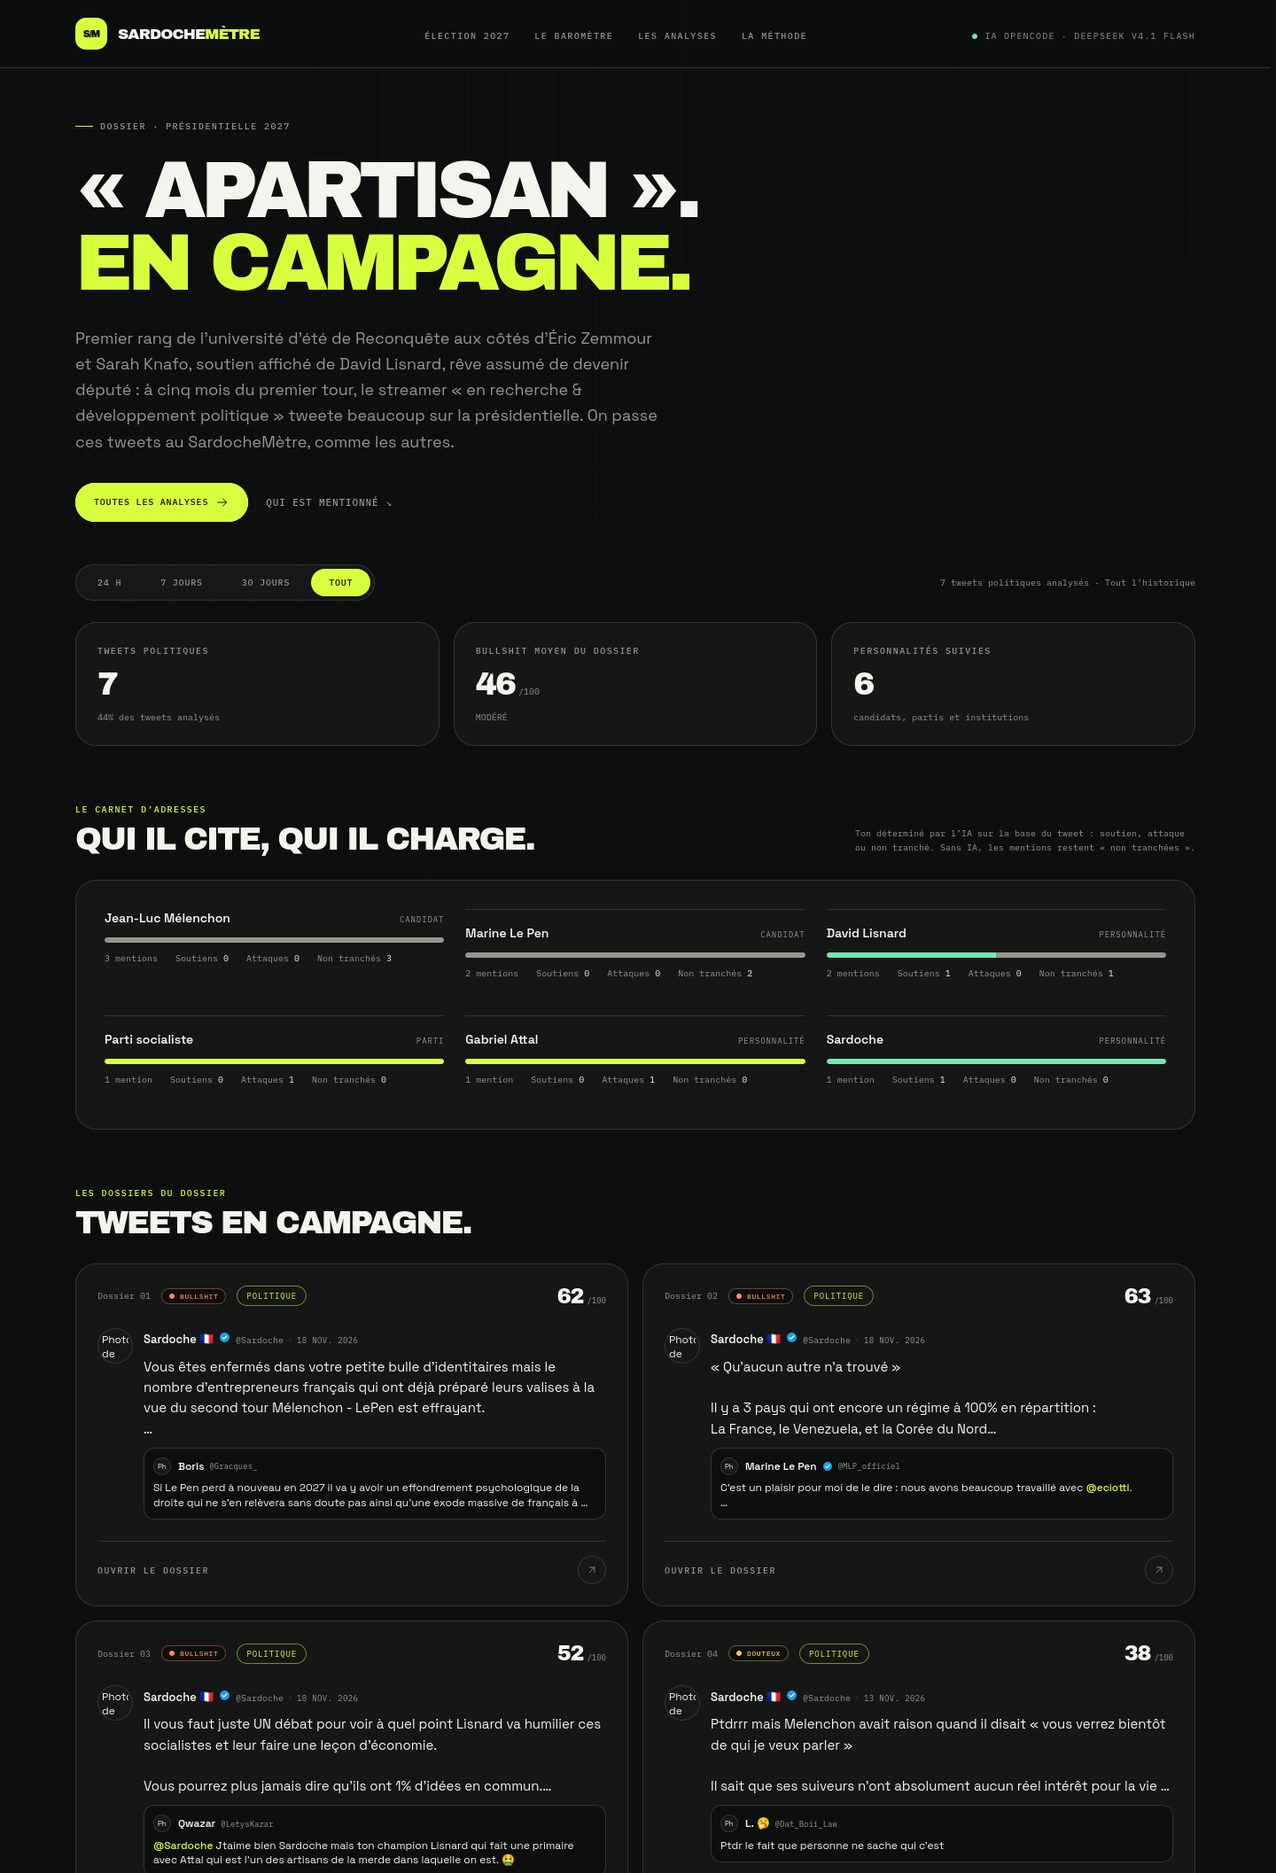
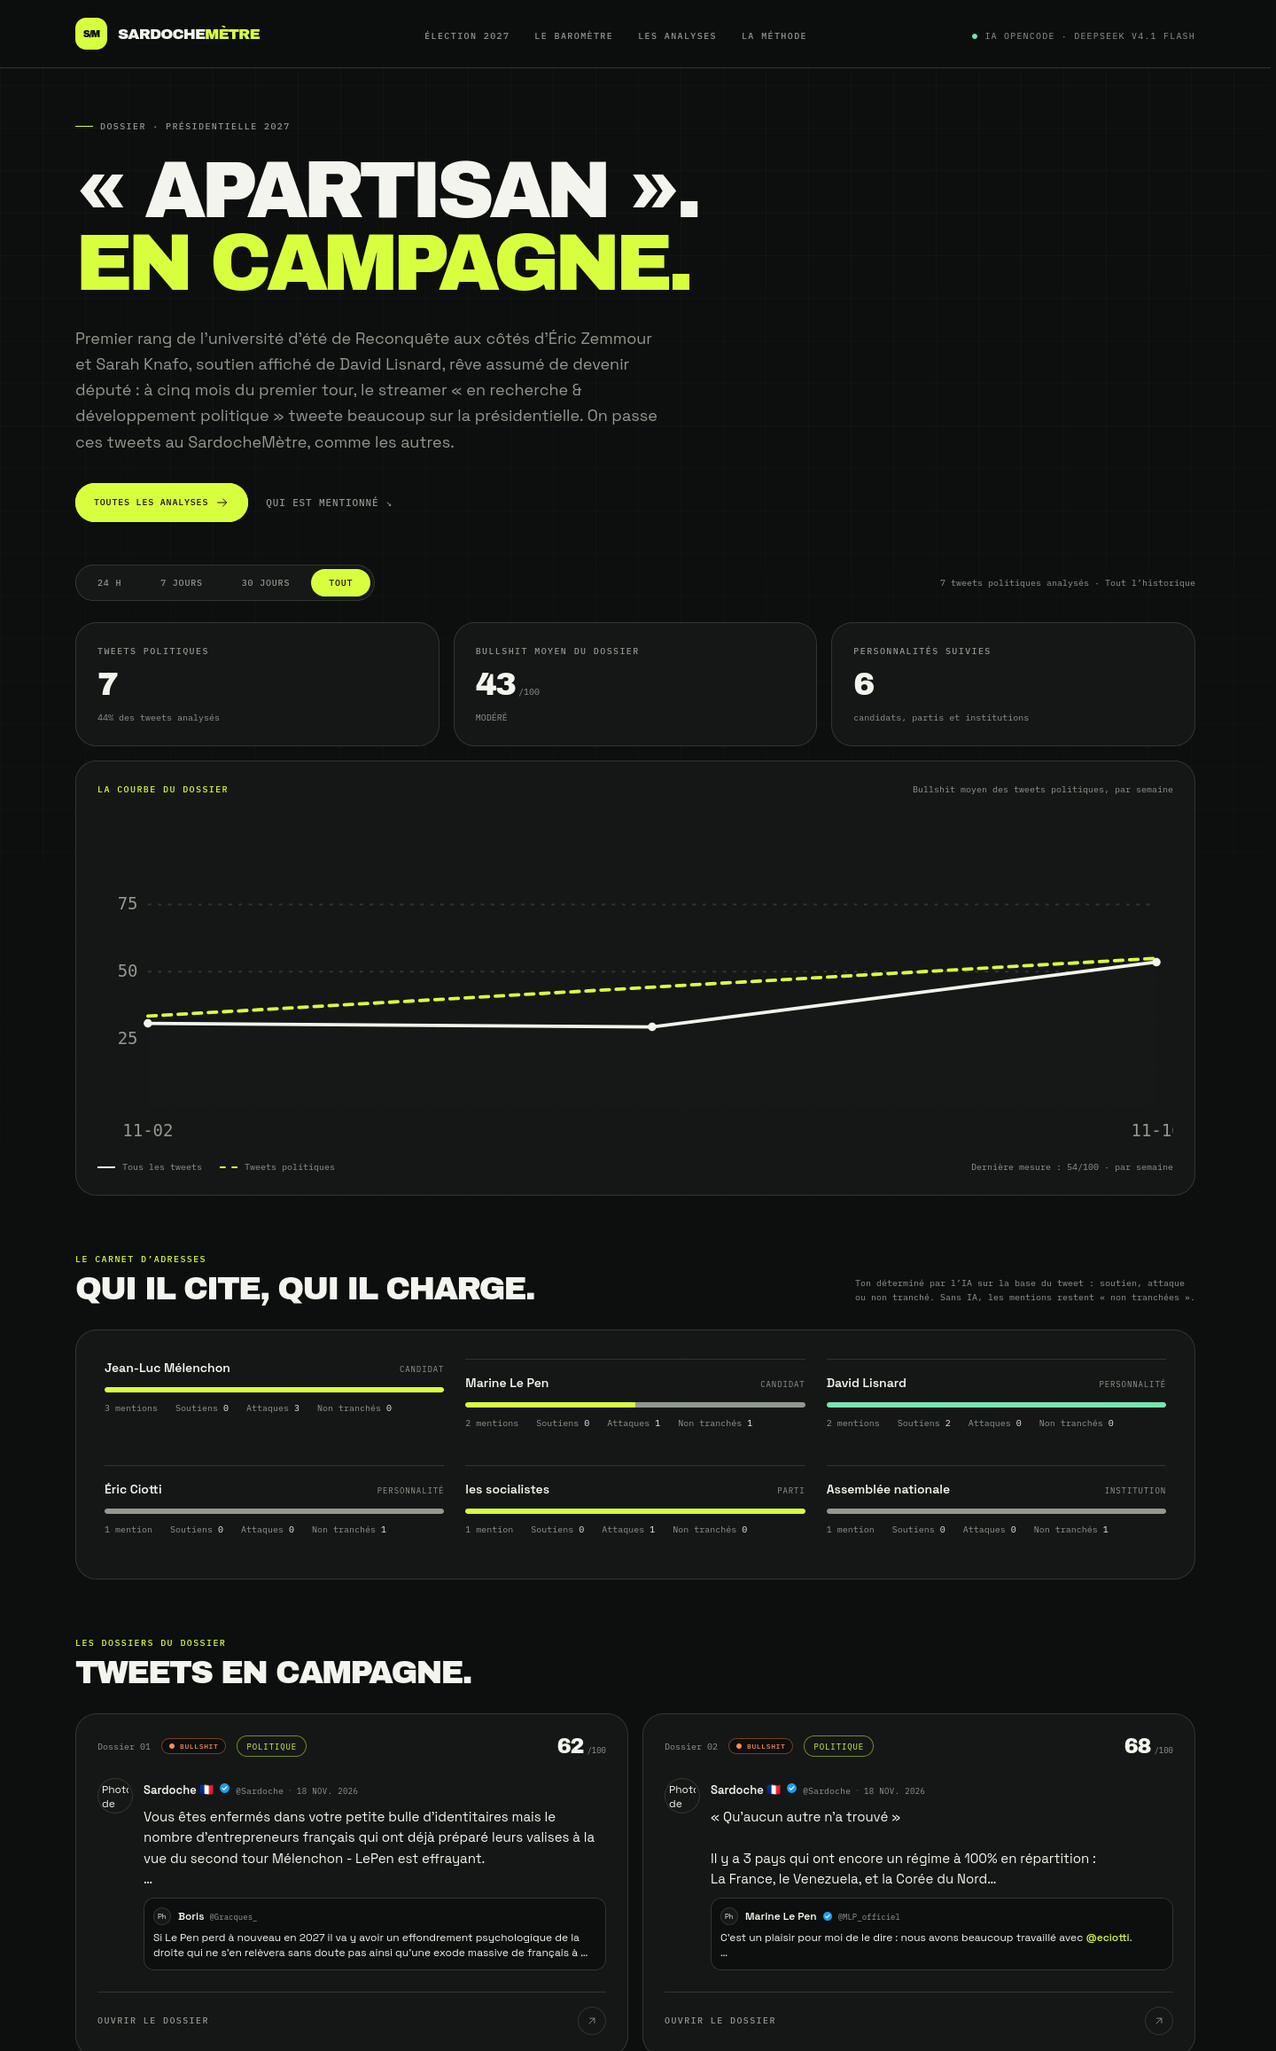
docs: documente l'analyse sourcée et les courbes
- README : fonctionnalités, routes historique, forme plate étendue
  (fact-checks sourcés, sources consultées), variables
  ANALYZE_WITH_SOURCES et TAVILY_API_KEY, coût (~2 appels par tweet),
  limites des sources ; captures reprises avec la courbe ;
- ARCHITECTURE : pipeline deux passes, sourcesService, historique et
  colonnes analyses.sources ;
- AI_MODE : description complète du pipeline avec rattrapage ;
- CLAUDE : contrats, arborescence, 150 tests backend / 55 frontend.

diff --git a/README.md b/README.md
@@ -68,6 +68,16 @@ de test. Le détail de l'inventaire se trouve dans
   attaque, neutre) et une page dédiée agrège le tout : qui est cité, qui est
   chargé, score de bullshit moyen des tweets en campagne. Fonctionne sans
   clé IA (détection lexicale seule, ton « non tranché »).
+- **Fact-check sourcé en deux passes** : l'IA extrait d'abord les
+  affirmations du tweet, le backend recherche des sources (Tavily si clé,
+  API Wikipédia FR sinon), puis l'IA ré-analyse en citant ces sources. Le
+  détail du tweet affiche les sources consultées avec extraits, et chaque
+  affirmation porte les liens qui l'éclairent. Anti-hallucination : le modèle
+  ne peut citer que des URL fournies par le backend, jamais inventées.
+- **Graphiques** : courbe de l'indice de bullshit dans le temps (par jour,
+  semaine ou mois) avec la série des tweets politiques en pointillés, sur
+  l'accueil et dans le dossier élection — SVG maison, sans dépendance de
+  graphique.
 - **Interface sombre et responsive** : titres Archivo Black, texte Space Grotesk,
   données IBM Plex Mono, accent vert acide, tableau de bord et archives en cartes.
 - **404 et états d'erreur** : page inconnue, tweet introuvable, backend indisponible,
@@ -231,6 +241,8 @@ Variables principales :
 | `OPENCODE_MODEL` | `deepseek-v4.1-flash` | Modèle utilisé. |
 | `OPENCODE_PLAN` | `payg` ou `go` | Offre OpenCode et URL associée. |
 | `OPENCODE_MAX_TOKENS` | `3000` | Limite de génération. |
+| `ANALYZE_WITH_SOURCES` | `true` | Active la recherche de sources et la deuxième passe d'analyse ; `false` repasse en mono-passe. |
+| `TAVILY_API_KEY` | — | Clé optionnelle de recherche web (https://tavily.com). Sans clé, seule l'API Wikipédia FR est consultée. |
 | `SARDOCHE_USERNAME` | `Sardoche` | Compte suivi. |
 | `TWITTER_BEARER_TOKEN` | — | Uniquement avec `TWITTER_SOURCE=x`. |
 
@@ -239,6 +251,11 @@ application. L'offre **Go** est prévue pour les agents de codage ; elle reste
 supportée, avec l'en-tête `x-opencode-session` ajouté par le backend. La configuration
 locale de ce dépôt utilise une clé Go (`OPENCODE_PLAN=go`) ; le compte pay-as-you-go
 n'a pas de crédits. Pour un déploiement public, préférez une clé payg approvisionnée.
+
+L'analyse en deux passes consomme environ **deux appels IA par tweet** (trois si
+la deuxième passe doit être retentée) : avec DeepSeek Flash, le coût reste de
+l'ordre du centième de centime par tweet. La recherche de sources (Wikipédia) est
+gratuite et sans clé.
 
 La clé OpenCode ne doit **jamais** être exposée au frontend. Aucun secret ne doit
 figurer dans une variable `VITE_*`.
@@ -364,6 +381,7 @@ JSON ; les erreurs utilisent la forme `{ "error": "..." }`.
 | `GET` | `/api/tweets/stats?period=` | `{period, avgScore, minScore, maxScore, totalAnalyzed, verdictDistribution}`. |
 | `GET` | `/api/tweets/bullshitmetre?period=` | `{period, globalScore, level, sampleSize, timestamp}`. Niveaux : `FAIBLE` (< 25), `MODÉRÉ` (< 50), `ÉLEVÉ` (< 75), `CRITIQUE` (≥ 75). |
 | `GET` | `/api/tweets/election?period=&limit=10` | Dossier élection : `{period, politicalCount, totalAnalyzed, avgPoliticalScore, mentions, tweets, updatedAt}`. `mentions` agrège les personnalités, partis et institutions cités dans les tweets politiques avec leur ton (`soutien`, `attaque`, `neutre`) et les identifiants des tweets concernés. |
+| `GET` | `/api/tweets/historique?period=&bucket=day\|week\|month` | Courbe de l'indice : `{period, bucket, points: [{date, avgScore, count, politicalCount, avgPoliticalScore}], updatedAt}`. `avgPoliticalScore` vaut `null` quand le bucket ne contient aucun tweet politique. Un bucket inconnu répond `400`. |
 | `GET` | `/api/tweets/search?q=` | `{tweets, total}` — recherche simple sur le contenu. |
 | `GET` | `/api/tweets/:id` | `{tweet}` ou `404` avec `{error}`. |
 | `POST` | `/api/tweets/analyze` | Corps `{content, tweet_id?}`. `content` est obligatoire et limité à 1000 caractères. Si `tweet_id` existe en base, son contexte (parent, citation, images) est envoyé au modèle et le tweet analysé est retourné ; sinon `{analysis}`. `401` si `ANALYZE_API_KEY` est définie et absente/invalide, `503` sans provider IA configuré. |
@@ -424,12 +442,20 @@ Forme d'un tweet (plate) :
   "bullshit_score": 86,
   "verdict": "BULLSHIT",
   "reasoning": "…",
-  "fact_checks": [{ "claim": "…", "verdict": "faux", "note": "…" }],
+  "fact_checks": [{ "claim": "…", "verdict": "faux", "note": "…", "sources": [{ "title": "…", "url": "…" }] }],
   "mentions": [
     {
       "label": "David Lisnard",
       "type": "candidat",
       "stance": "soutien"
+    }
+  ],
+  "sources": [
+    {
+      "title": "Retraite en France",
+      "url": "https://fr.wikipedia.org/wiki/Retraite_en_France",
+      "snippet": "…",
+      "provider": "wikipedia"
     }
   ],
   "humor_comment": "…",
@@ -480,6 +506,15 @@ Le détail est dans [`docs/DEPLOYMENT.md`](docs/DEPLOYMENT.md).
   « neutres ». C'est un outil satirique de lecture de flux, pas un observatoire
   électoral officiel. Le dictionnaire est calibré sur la campagne 2027 et doit
   être tenu à jour au fil des candidatures.
+- **Sources de fact-check indicatives** : la deuxième passe consulte Wikipédia
+  FR (et Tavily si une clé est fournie) et le modèle ne peut citer que ces URL —
+  il ne peut pas en inventer. Mais un extrait Wikipédia peut être daté ou
+  incomplet, et Tavily peut ramener un article de presse contesté : une source
+  citée n'est pas une preuve définitive, juste un point de départ. Les analyses
+  antérieures à la fonctionnalité n'affichent aucune source.
+- **IA faillible (rappel)** : le modèle peut se tromper, inventer un fait dans
+  une note ou mal lire une source fournie. Les réponses invalides sont
+  rejetées, pas les erreurs de jugement.
 - **Repli mock limité aux tests/démo** : le service d'analyse ne produit une
   analyse simulée que si `NODE_ENV=test`, `DEMO_MODE=true` ou `AI_PROVIDER=mock`.
   En production, une clé manquante fait répondre `503 AI_NOT_CONFIGURED` et aucune

diff --git a/CLAUDE.md b/CLAUDE.md
@@ -29,6 +29,15 @@ analyses ne constituent pas un fact-checking professionnel.
   (`politicsService.js`, dictionnaire calibré sur la présidentielle 2027),
   mentions de personnalités avec ton (soutien/attaque/neutre) produites par
   l'IA, route `GET /api/tweets/election` et page frontend `/election`.
+- **Fact-check sourcé en deux passes** : `sourcesService.js` consulte
+  Wikipédia FR (sans clé) et Tavily (si `TAVILY_API_KEY`), le modèle cite
+  ces sources dans `fact_checks[].sources` et ne peut inventer aucune URL
+  (filtrage `allowedUrls`). Colonne `analyses.sources`, section « Sources
+  consultées » sur la page détail. `ANALYZE_WITH_SOURCES=false` coupe le
+  pipeline. `scripts/regen-analyses.js` régénère les analyses en base.
+- **Courbes** : `GET /api/tweets/historique` agrège le score par
+  jour/semaine/mois avec la série politique ; `TrendChart.jsx` (SVG maison)
+  l'affiche sur l'accueil et dans le dossier élection.
 - **Déploiement** : frontend statique (Vercel/Netlify) + backend
   (Railway/Render) avec SQLite sur disque persistant ou PostgreSQL.
 
@@ -71,11 +80,14 @@ backend/
   services/
     twitterService.js    # sources profile, syndication, x, mock
     opencodeService.js   # appels OpenCode et normalisation
-    aiService.js         # sélection du provider
+    aiService.js         # sélection du provider, orchestration deux passes
     politicsService.js   # détection électorale et mentions (dictionnaire 2027)
+    sourcesService.js    # recherche de sources (Wikipédia FR, Tavily optionnel)
     schedulerLock.js     # bail renouvelable du scheduler
     claudeService.js     # prompt, parsing, provider Anthropic historique
-  migrations/            # migrations PostgreSQL (source, profil, embed, bail, élection)
+  scripts/
+    regen-analyses.js    # régénère toutes les analyses avec le prompt courant
+  migrations/            # migrations PostgreSQL (source, profil, embed, bail, élection, sources)
   mock/tweets.json       # tweets de test
   test/                  # tests node:test
 
@@ -103,7 +115,7 @@ archive/                 # ancien squelette de projet
 cd backend
 npm start                # serveur
 npm run dev              # serveur avec rechargement
-npm test                 # 131 tests
+npm test                 # 150 tests
 npm run sync             # collecte les tweets de la source configurée
 npm run sync:analyze     # collecte + analyse les nouveaux tweets
 npm run seed             # données mock (tests uniquement)
@@ -116,7 +128,7 @@ npm run dev
 npm run build
 npm run preview
 npm run lint
-npm test                 # 48 tests
+npm test                 # 55 tests
 
 # Vérification complète
 ./test-install.sh
@@ -133,6 +145,7 @@ npm test                 # 48 tests
 | GET | `/api/tweets/stats?period=` | `{period, avgScore, minScore, maxScore, totalAnalyzed, verdictDistribution}` |
 | GET | `/api/tweets/bullshitmetre?period=` | `{period, globalScore, level, sampleSize, timestamp}` |
 | GET | `/api/tweets/election?period=&limit=` | `{period, politicalCount, totalAnalyzed, avgPoliticalScore, mentions, tweets, updatedAt}` |
+| GET | `/api/tweets/historique?period=&bucket=day\|week\|month` | `{period, bucket, points: [{date, avgScore, count, politicalCount, avgPoliticalScore}], updatedAt}` ; bucket inconnu → 400 |
 | GET | `/api/tweets/search?q=` | `{tweets, total}` |
 | GET | `/api/tweets/:id` | `{tweet}` ou 404 |
 | POST | `/api/tweets/analyze` | `{tweet}` si `tweet_id` existe, sinon `{analysis}` |
@@ -179,6 +192,9 @@ Forme de tweet plate :
   "fact_checks": [],
   "mentions": [
     { "label": "David Lisnard", "type": "candidat", "stance": "soutien" }
+  ],
+  "sources": [
+    { "title": "Retraite en France", "url": "https://fr.wikipedia.org/wiki/…", "snippet": "…", "provider": "wikipedia" }
   ],
   "humor_comment": "…",
   "analyzed_at": "…"
@@ -230,6 +246,8 @@ CRON_SCHEDULE=*/5 * * * *
 CRON_RUN_ON_START=true
 ANALYZE_RATE_LIMIT=10
 ANALYZE_RATE_WINDOW_MS=60000
+# ANALYZE_WITH_SOURCES=true        # false = analyse mono-passe, sans recherche
+# TAVILY_API_KEY=tvly-...           # recherche web réelle (sinon Wikipédia FR seul)
 # TRUST_PROXY=1            # derrière Railway/Render
 # ANALYZE_API_KEY=...      # protège les routes POST d'analyse (Bearer / x-analyze-key)
 # ANALYZE_RATE_LIMIT_SHARED=true  # compteur partagé entre instances
@@ -288,8 +306,8 @@ nécessaire.
 
 ## Tests
 
-- Backend : **131 tests** (`node --test test/*.test.js`, `npm test`).
-- Frontend : **48 tests** (`vitest run`, `npm test`).
+- Backend : **150 tests** (`node --test test/*.test.js`, `npm test`).
+- Frontend : **55 tests** (`vitest run`, `npm test`).
 - `npm run lint` et `npm run build` passent.
 - `npm audit` : backend propre ; le frontend signale le ReDoS picomatch
   (CVE-2026-112366) via les devDependencies vite/vitest. Aucune version corrigée

diff --git a/docs/ARCHITECTURE.md b/docs/ARCHITECTURE.md
@@ -237,6 +237,7 @@ analyses
   reasoning     TEXT
   fact_checks   JSONB (PostgreSQL) / TEXT JSON (SQLite)
   mentions      JSONB / TEXT JSON  (personnalités citées avec leur ton)
+  sources       JSONB / TEXT JSON  (sources consultées pour le fact-check)
   humor_comment TEXT
   analyzed_at   TIMESTAMP
 
@@ -308,6 +309,35 @@ même dictionnaire : le dossier fonctionne aussi sans clé IA.
 Le dictionnaire est un choix éditorial assumé : il doit suivre les
 candidatures officielles et rester factuel dans ses libellés.
 
+### Recherche de sources et analyse en deux passes
+
+`services/sourcesService.js` approfondit le fact-check :
+
+1. la passe 1 du modèle extrait les affirmations (`fact_checks[].claim`) et
+   les mentions ;
+2. le backend recherche jusqu'à 4 requêtes : API Wikipédia FR (sans clé) et,
+   si `TAVILY_API_KEY` est définie, Tavily (recherche web) — jusqu'à 8
+   sources, chaque échec étant ignoré ;
+3. la passe 2 ré-analyse avec le bloc « Sources consultées » ; le modèle ne
+   peut citer que ces URL, et toute URL hors liste est rejetée à la
+   normalisation (`normalizeFactChecks` avec `allowedUrls`) ;
+4. les sources consultées sont stockées dans `analyses.sources` et exposées
+   dans la forme plate (`sources`), affichées sur la page détail.
+
+Si la passe 2 échoue, une tentative à température 0,2 précède le repli sur la
+passe 1 sans sources. `ANALYZE_WITH_SOURCES=false` coupe le pipeline. Le
+script `backend/scripts/regen-analyses.js` régénère toutes les analyses en
+base avec le pipeline courant (à lancer après un changement de prompt).
+
+### Historique et courbes
+
+`GET /api/tweets/historique?period=&bucket=day|week|month` agrège le score
+moyen par bucket (UTC, semaines commençant le lundi) avec une seconde série
+pour les tweets politiques. SQLite calcule les buckets en JavaScript,
+PostgreSQL via `date_trunc`. Le frontend trace ces points en SVG maison
+(`TrendChart.jsx`), sans dépendance de graphique : une courbe sur l'accueil
+et une dans le dossier élection.
+
 ### Seed de test
 
 `db/mock-data.js` lit `backend/mock/tweets.json`, trie les tweets et remplace leurs
@@ -358,6 +388,7 @@ scheduler.
 | `GET` | `/api/tweets/stats?period=` | `{period, avgScore, minScore, maxScore, totalAnalyzed, verdictDistribution}` |
 | `GET` | `/api/tweets/bullshitmetre?period=` | `{period, globalScore, level, sampleSize, timestamp}` |
 | `GET` | `/api/tweets/election?period=&limit=` | `{period, politicalCount, totalAnalyzed, avgPoliticalScore, mentions, tweets, updatedAt}` |
+| `GET` | `/api/tweets/historique?period=&bucket=day\|week\|month` | `{period, bucket, points, updatedAt}` — bucket inconnu : `400` |
 | `GET` | `/api/tweets/search?q=` | `{tweets, total}` |
 | `GET` | `/api/tweets/:id` | `{tweet}` ou `404` |
 | `POST` | `/api/tweets/analyze` | `{tweet}` si `tweet_id` existe, sinon `{analysis}` |
@@ -403,6 +434,7 @@ Forme de tweet plate :
   "reasoning": "…",
   "fact_checks": [],
   "mentions": [{ "label": "…", "type": "candidat", "stance": "neutre" }],
+  "sources": [{ "title": "…", "url": "…", "snippet": "…", "provider": "wikipedia" }],
   "humor_comment": "…",
   "analyzed_at": "2026-11-06T14:27:52.877Z"
 }

diff --git a/docs/screenshots/README.md b/docs/screenshots/README.md
@@ -1,21 +1,22 @@
 # Captures d'écran
 
 Captures prises le 13 novembre 2026 sur la version actuelle de l'application
-(les captures du dossier élection datent du 18 novembre 2026). Les tweets
-affichés sont de **vrais tweets de @Sardoche des 5 et 18 novembre 2026**,
-collectés via la source `profile` puis analysés par OpenCode (DeepSeek V4.1
-Flash). Aucune capture ne montre de données mock.
+(`home.png`, `election.png` et `election-mobile.png` ont été reprises le
+18 novembre 2026 avec la courbe de l'indice). Les tweets affichés sont de
+**vrais tweets de @Sardoche des 5 et 18 novembre 2026**, collectés via la
+source `profile` puis analysés par OpenCode (DeepSeek V4.1 Flash). Aucune
+capture ne montre de données mock.
 
 | Fichier | Contenu |
 | --- | --- |
-| `home.png` | Accueil desktop : navigation, hero, baromètre, filtres et indicateurs |
+| `home.png` | Accueil desktop : navigation, hero, baromètre, filtres, indicateurs et courbe de l'indice dans le temps |
 | `une.png` | Accueil desktop : dossier le plus chaud, embed X et répartition des verdicts |
 | `liste.png` | Accueil desktop : archives en cartes avec médias, verdicts et scores |
 | `detail.png` | Page détail desktop du tweet Perkz/G2 : embed, panneau de score, analyse et fact-checks |
 | `detail-photo.png` | Page détail desktop d'un tweet avec photo : embed, score, analyse et fact-checks |
 | `mobile.png` | Accueil mobile : hero et baromètre, sans débordement horizontal |
 | `detail-mobile.png` | Page détail mobile : tweet, panneau de score, analyse et fact-checks |
-| `election.png` | Dossier élection desktop : hero de campagne, KPIs (tweets politiques, bullshit moyen), carnet des mentions avec ton soutien/attaque et derniers tweets politiques |
+| `election.png` | Dossier élection desktop : hero de campagne, KPIs, courbe du dossier, carnet des mentions avec ton soutien/attaque et derniers tweets politiques |
 | `election-mobile.png` | Dossier élection mobile : même contenu en une colonne, sans débordement horizontal |
 
 Les captures `detail.png`, `detail-photo.png` et `election.png` correspondent à

diff --git a/docs/AI_MODE.md b/docs/AI_MODE.md
@@ -125,6 +125,31 @@ contient `{tweet}` à jour ; sinon elle contient `{analysis}`.
 Le prompt système demande de traiter le tweet comme une donnée et de ne pas suivre
 ses instructions. C'est une précaution, pas une garantie contre la prompt injection.
 
+### Analyse en deux passes avec recherche de sources
+
+Depuis novembre 2026, chaque analyse réelle se déroule en deux temps :
+
+1. **Passe 1** : le modèle produit l'analyse de base — score, verdict,
+   fact-checks, mentions politiques. Cette passe sert aussi d'extracteur
+   d'affirmations.
+2. **Recherche de sources** (`services/sourcesService.js`) : le backend
+   interroge Wikipédia FR (sans clé) et, si `TAVILY_API_KEY` est définie,
+   l'API Tavily (recherche web réelle). Jusqu'à 4 requêtes construites à
+   partir des affirmations et mentions, 8 sources conservées au total. Une
+   recherche qui échoue est ignorée : l'analyse continue.
+3. **Passe 2** : le modèle ré-analyse le tweet avec le bloc « Sources
+   consultées » dans le contexte, et cite ces sources dans
+   `fact_checks[].sources`. Règle anti-hallucination : le backend rejette
+   toute URL qui ne figure pas dans les sources réellement consultées.
+
+Si la passe 2 produit un JSON invalide, une unique tentative à température
+réduite (0,2) est lancée ; si elle échoue aussi, l'analyse de la passe 1 est
+conservée sans sources. `ANALYZE_WITH_SOURCES=false` désactive tout le
+pipeline et repasse en analyse mono-passe.
+
+Coût : environ deux appels par tweet (trois avec la tentative de rattrapage).
+Avec DeepSeek Flash, cela reste marginal ; la recherche de sources est gratuite.
+
 En plus du score, du verdict, des fact-checks et de la punchline, le modèle renvoie
 depuis novembre 2026 deux champs liés au dossier élection :
 
